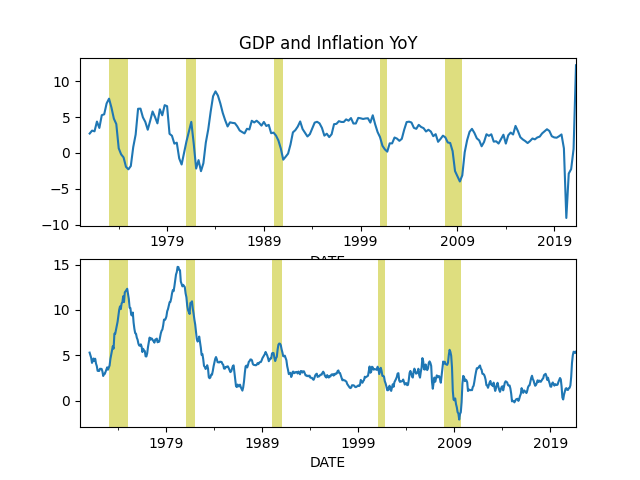
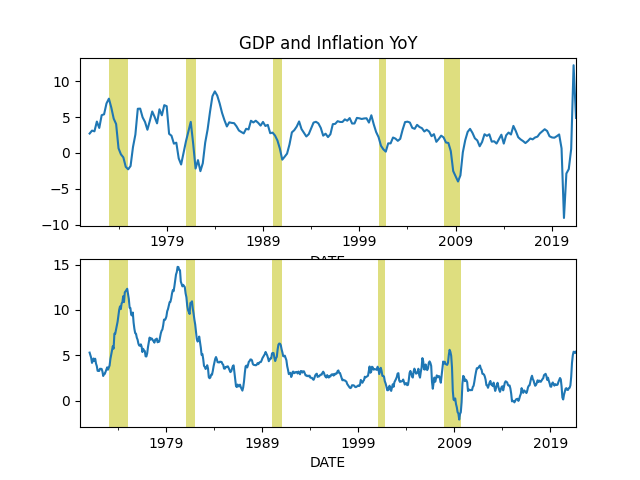
-

diff --git a/en/README.md b/en/README.md
@@ -1,71 +1,81 @@
 <img src="https://drive.google.com/uc?export=view&id=1B2wf9R7AMH1d7Vw6e2mucLbIQ5NSjir7"/>
 
-The Intercept: "By 2013, the Obama administration had concluded that
-it could not charge WikiLeaks or Julian Assange with crimes related to
-publishing classified documents — documents that showed, among other
-things, evidence of U.S. war crimes in Iraq and Afghanistan — without
-criminalizing investigative journalism itself. [.. DOJ] called this
-the “New York Times problem,” because if WikiLeaks and Assange were
-criminals for publishing classified information, the New York Times
-would be just as guilty.
+I will laugh my ass off if militaries get involved in this debacle
 
-Five years later, in 2018, the Trump administration indicted Assange
-anyway. But, rather than charging him with espionage for publishing
-classified information, they charged him with conspiracy to commit a
-computer crime..
-
-The alleged hacking not only didn’t happen, according to expert
-testimony, but it also couldn’t have happened"
-
-[[-]](https://theintercept.com/2020/09/30/assange-extradition-cfaa-hacking/)
+"PM Johnson vows to defend UK interests in French fishing row"
 
 ---
 
-"The UK hydrogen industry could see demands of 10TWh in 2030 and up to
-37TWh by 2050"
+They likely went to Mexico
 
-[[-]](https://www.h2-view.com/story/report-uk-hydrogen-demand-predicted-to-be-37twh-by-2050)
-
----
-
-"@HypersonixAU has placed an order with .. @Australia3d to manufacture
-a new 3D printed, hydrogen-powered scramjet engine to support clean
-emissions in the aerospace industry"
-
-[[-]](https://www.h2-view.com/story/hypersonix-places-order-to-manufacture-a-3d-printed-hydrogen-powered-scramjet/)
+"Texas abortion numbers halved in month after ban took effect"
 
 ---
 
-AFP: "EU court fines Poland 1 million euros daily in judiciary row"
+Hah. Goodbye FAANG, welcome MAANG, or MAMAA (MS, Alphabet, Meta, Apple
+and Amazon)
+
+\#madmoney
 
 ---
 
-"Fox News’s Neil Cavuto reveals his own viewers abused him in hate mail
-after he urged them to get vaccinated"
+Saw a new hashtag \#DeleteMeta
 
 ---
 
-Many in the US right-wing like Hungary - and look at them.. 
-
-Bloomberg: "Grappling with surging coronavirus cases and a stalled
-vaccination program, Hungary allowed companies to force staff to get a
-Covid-19 vaccine as a condition of employment"
+\#Software \#Nerd Hey I like this new build system [meson](http://mesonbuild.com/)
+and [ninja](https://ninja-build.org/). It was only a matter of time `make`
+was replaced with a 🐍 based version, the snake excels at playing w files anyway.
 
 ---
 
-Just the soccer fans?
-
-Al Monitor: "Israelis fed up with racist, anti-Muslim behavior of soccer fans"
+"Hellishly Hot Tiny [AU] Town Offered ‘Free’ Land...  The town in
+Australia’s outback, where the temperature can hit 113 degrees
+Fahrenheit, drew hundreds of global inquiries when it put out the call
+in a bid to expand its population"
 
 ---
 
-The map shared [before](https://pbs.twimg.com/media/FCtre5sWEAgFFp9?format=png&name=small)
-says sunlight radiation at maximum is ~300 W/m2. The number we used
-previously  ~1000 W/m2 is widely known, sun at its zenith, an ideal
-situation. For daily calculations you factor in sun availability,
-less direct sunlight, etc, you can probably arrive at the numbers
-seen in that map. For more accurate, region specific calculations
-that need a simple, daily number, I'd go with the numbers there.
+Forget OPEC, one day there will be OGFEC, Organization of Green Fuel
+Exporting Countries where Saudi Arabia and Australia will bicker on
+fuel production quotas as to not collapse the price, bcz there'll be
+so much of the stuff to go around... Let's get there.
+
+---
+
+That small patch 250 km by 250 km can generate 25 Petawatt-hours
+in a year. More than enough for the entire world.
+From [vid](https://youtu.be/gtmWGPaDkoI?t=417).
+
+<img width="200" src="https://pbs.twimg.com/media/FCtvwEsXMAYg9Tp?format=png&name=small"/>
+
+---
+
+Politico: "Ron Wyden said he hoped Democrats could still find a way to
+address rising prescription drug costs but acknowledged the power the
+pharmaceutical industry has shown so far to prevent even modest
+changes"
+
+[[-]](https://www.politico.com/news/2021/10/28/democrats-drug-pricing-social-spending-517490)
+
+---
+
+"Qatar and Korea will expand cooperation in the field of hydrogen with
+@qatar_energy and #H2Korea signing a new framework agreement to
+support development of the hydrogen value chain"
+
+[[-]](https://www.h2-view.com/story/qatarenergy-h2korea-sign-agreement-to-expand-and-enhance-the-hydrogen-supply-chain/)
+
+---
+
+Dems cant propose new legislation for fear of SCOTUS reversal? Well,
+got noone to blame but yourself.. Al Dork got his ass kicked by Nader
+in Florida (2000) because he wasn't left enough.. Hillary lost due to
+adverse effects of long-Clintonism (kinda like long-Covid, but worse).
+In the past 40 years you were at least one President short, so now SC
+is stuffed with right-leaning judges. That should be no
+surprise.. Dems should have practiced more partisanship, less
+triangulation.
 
 ---
 

diff --git a/en/tweets/2021/week43.md b/en/tweets/2021/week43.md
@@ -1,5 +1,74 @@
 # Week 43
 
+The Intercept: "By 2013, the Obama administration had concluded that
+it could not charge WikiLeaks or Julian Assange with crimes related to
+publishing classified documents — documents that showed, among other
+things, evidence of U.S. war crimes in Iraq and Afghanistan — without
+criminalizing investigative journalism itself. [.. DOJ] called this
+the “New York Times problem,” because if WikiLeaks and Assange were
+criminals for publishing classified information, the New York Times
+would be just as guilty.
+
+Five years later, in 2018, the Trump administration indicted Assange
+anyway. But, rather than charging him with espionage for publishing
+classified information, they charged him with conspiracy to commit a
+computer crime..
+
+The alleged hacking not only didn’t happen, according to expert
+testimony, but it also couldn’t have happened"
+
+[[-]](https://theintercept.com/2020/09/30/assange-extradition-cfaa-hacking/)
+
+---
+
+"The UK hydrogen industry could see demands of 10TWh in 2030 and up to
+37TWh by 2050"
+
+[[-]](https://www.h2-view.com/story/report-uk-hydrogen-demand-predicted-to-be-37twh-by-2050)
+
+---
+
+"@HypersonixAU has placed an order with .. @Australia3d to manufacture
+a new 3D printed, hydrogen-powered scramjet engine to support clean
+emissions in the aerospace industry"
+
+[[-]](https://www.h2-view.com/story/hypersonix-places-order-to-manufacture-a-3d-printed-hydrogen-powered-scramjet/)
+
+---
+
+AFP: "EU court fines Poland 1 million euros daily in judiciary row"
+
+---
+
+"Fox News’s Neil Cavuto reveals his own viewers abused him in hate mail
+after he urged them to get vaccinated"
+
+---
+
+Many in the US right-wing like Hungary - and look at them.. 
+
+Bloomberg: "Grappling with surging coronavirus cases and a stalled
+vaccination program, Hungary allowed companies to force staff to get a
+Covid-19 vaccine as a condition of employment"
+
+---
+
+Just the soccer fans?
+
+Al Monitor: "Israelis fed up with racist, anti-Muslim behavior of soccer fans"
+
+---
+
+The map shared [before](https://pbs.twimg.com/media/FCtre5sWEAgFFp9?format=png&name=small)
+says sunlight radiation at maximum is ~300 W/m2. The number we used
+previously  ~1000 W/m2 is widely known, sun at its zenith, an ideal
+situation. For daily calculations you factor in sun availability,
+less direct sunlight, etc, you can probably arrive at the numbers
+seen in that map. For more accurate, region specific calculations
+that need a simple, daily number, I'd go with the numbers there.
+
+---
+
 "Pakistan will gain its first green #hydrogen production facility"
 
 [[-]](https://www.h2-view.com/story/powerchina-international-oracle-power-sign-agreement-for-pakistans-first-hydrogen-production-facility/)

diff --git a/en/2019/05/stats.md b/en/2019/05/stats.md
@@ -73,12 +73,12 @@ plt.savefig('cycle.png')
 ```text
                gdpyoy
 DATE                 
-2020-01-01   0.630785
 2020-04-01  -9.083737
 2020-07-01  -2.887506
 2020-10-01  -2.262915
 2021-01-01   0.546977
 2021-04-01  12.226677
+2021-07-01   4.872755
               infyoy
 DATE                
 2021-04-01  4.159695
